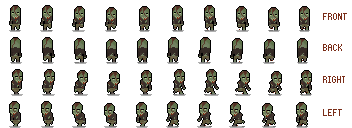
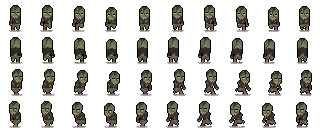
Update new monster

diff --git a/core/src/com/mygdx/game/model/Monster.java b/core/src/com/mygdx/game/model/Monster.java
@@ -33,7 +33,7 @@ public class Monster extends Entity{
         this.gameScreen = gameScreen;
 
         //image
-            this.texture_walking = new Texture("basic/Slimes/Slime_Medium_Blue.png");
+            this.texture_walking = new Texture("Apocalypse Character Pack/Zombie/Walk.png");
             //this.texture_shooting = new Texture("basic/character/Shoot.png");
             //this.texture_stabbing = new Texture("basic/character/Stab.png");
         // position
@@ -79,10 +79,10 @@ public class Monster extends Entity{
     }
 
     private void setAnimation(){
-        walking = new Animation[10];
+        walking = new Animation[15];
      //   stabbing = new Animation[10];
        // shootting = new Animation[10];
-        idle = new TextureRegion[10];
+        idle = new TextureRegion[15];
         TextureRegion[][] region1 = TextureRegion.split(this.texture_walking, this.getWidth(), this.getHeight());
      //   TextureRegion[][] region2 = TextureRegion.split(this.texture_stabbing, this.getWidth(), this.getHeight());
      //   TextureRegion[][] region3 = TextureRegion.split(this.texture_shooting, this.getWidth(), this.getHeight());
@@ -103,8 +103,8 @@ public class Monster extends Entity{
         int index;
         if(direction == Direction.DOWN) index = 0;
         else if(direction == Direction.LEFT || direction == Direction.DOWNLEFT || direction == Direction.UPLEFT) index = 3;
-        else if(direction == Direction.RIGHT || direction == Direction.DOWNRIGHT || direction == Direction.UPRIGHT) index = 1;
-        else index = 2;
+        else if(direction == Direction.RIGHT || direction == Direction.DOWNRIGHT || direction == Direction.UPRIGHT) index = 2;
+        else index = 1;
 
         //  System.out.println(this.gameScreen.knight.getX() + "-" + this.getX() + "-" + this.gameScreen.knight.screenX);
         float screenX = this.getX() - this.gameScreen.knight.getX() + this.gameScreen.knight.screenX;
@@ -114,7 +114,7 @@ public class Monster extends Entity{
     }
     private void drawHealthBar(ShapeRenderer shapeRenderer, float stateTime, float screenX, float screenY, int index){
         shapeRenderer.setColor(Color.RED);
-        shapeRenderer.rect(screenX, screenY + this.getHeight() * 2 - 10, this.getWidth() * 2 , 8);
+        shapeRenderer.rect(screenX, screenY + this.getHeight() * 2, this.getWidth() * 2 , 8);
     }
     private void drawMonster(SpriteBatch batch, float stateTime, float screenX, float screenY, int index){
         // System.out.println("Knight: (" + this.gameScreen.knight.getX() + "," + this.gameScreen.knight.getY() + ")  " + screenX + " - " + screenY);

diff --git a/core/src/com/mygdx/game/controller/movement/Monster_Movement.java b/core/src/com/mygdx/game/controller/movement/Monster_Movement.java
@@ -3,6 +3,7 @@ package com.mygdx.game.controller.movement;
 import com.badlogic.gdx.Gdx;
 import com.badlogic.gdx.math.Vector2;
 import com.mygdx.game.controller.CheckCollision;
+import com.mygdx.game.controller.Direction;
 import com.mygdx.game.controller.Movement;
 import com.mygdx.game.model.Entity;
 import com.mygdx.game.view.GameScreen;
@@ -27,6 +28,39 @@ public class Monster_Movement implements Movement {
         float oldX = entity.getX(), oldY = entity.getY();
         Vector2 res = new Vector2();
         Vector2 targetVector = new Vector2(targetX - entity.getX(), targetY - entity.getY());
+        if(targetVector.x > 0){
+            if(targetVector.y > 0){
+                entity.direction = Direction.UPRIGHT;
+            }
+            else if(targetVector.y == 0){
+                entity.direction = Direction.RIGHT;
+            }
+            else if(targetVector.y < 0){
+                entity.direction = Direction.DOWNRIGHT;
+            }
+        }
+        else if(targetVector.x == 0){
+            if(targetVector.y > 0){
+                entity.direction = Direction.UP;
+            }
+            else if(targetVector.y == 0){
+                entity.direction = Direction.DOWN;
+            }
+            else if(targetVector.y < 0){
+                entity.direction = Direction.DOWN;
+            }
+        }
+        else if(targetVector.x < 0){
+            if(targetVector.y > 0){
+                entity.direction = Direction.UPLEFT;
+            }
+            else if(targetVector.y == 0){
+                entity.direction = Direction.LEFT;
+            }
+            else if(targetVector.y < 0){
+                entity.direction = Direction.DOWNLEFT;
+            }
+        }
         res.set(targetVector).nor().scl(entity.getSpeed_Stright());
         entity.setPosision(entity.getX() + res.x* Gdx.graphics.getDeltaTime(), entity.getY() + res.y* Gdx.graphics.getDeltaTime());
         checkCollision.check_MonsterWithMap(oldX, oldY);
